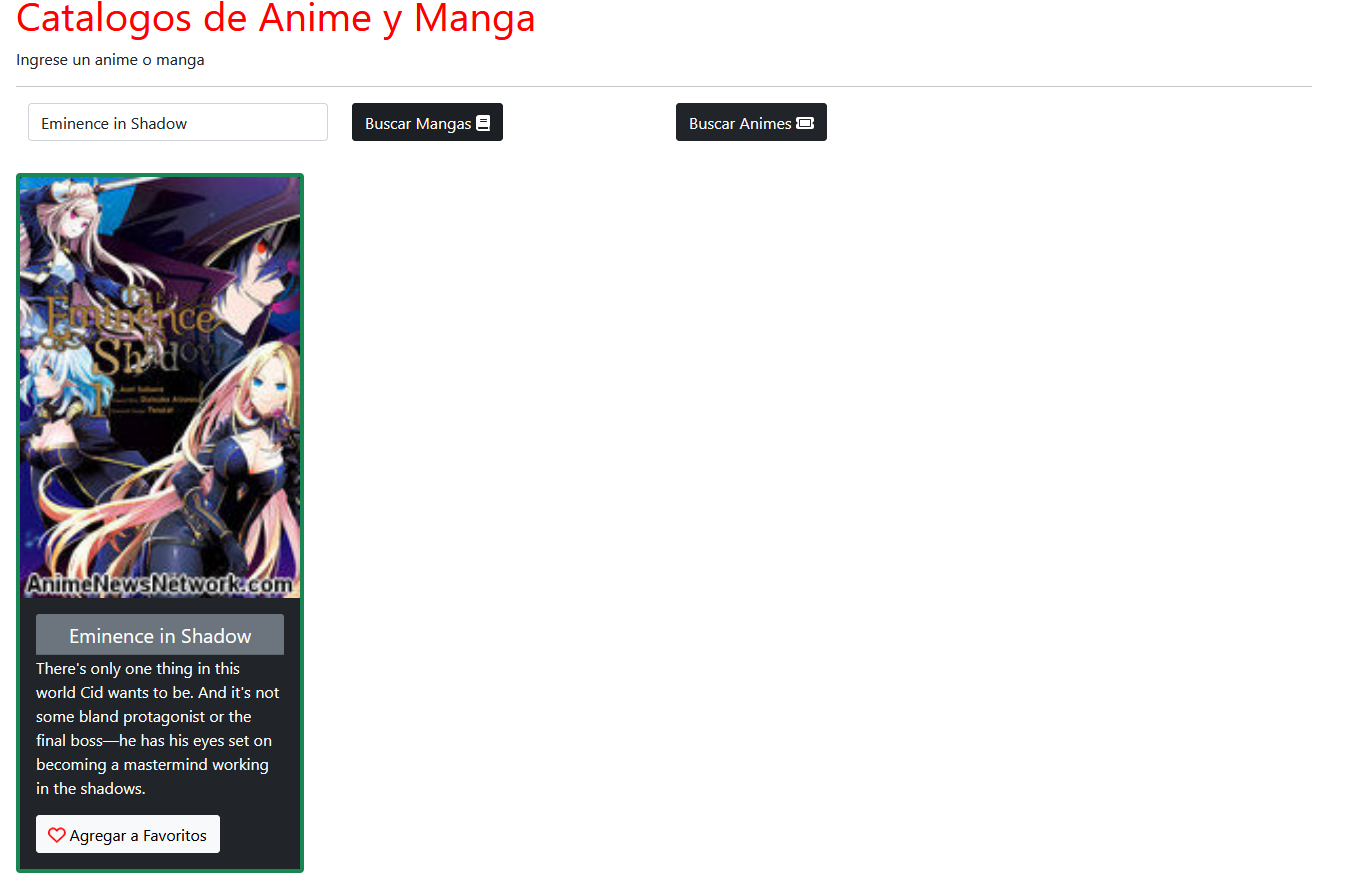
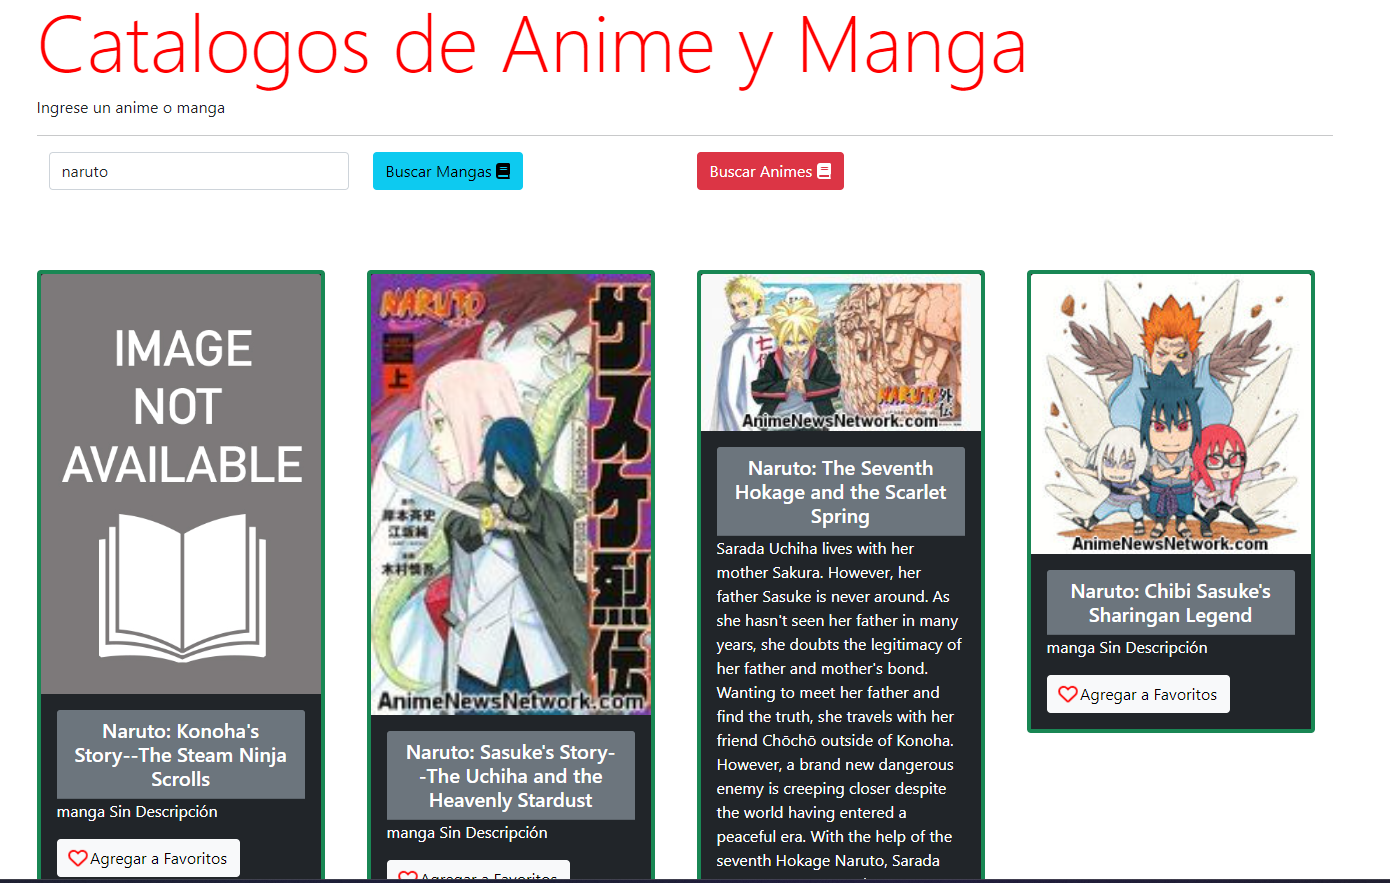
update

diff --git a/examenTecnicoAnime/Controllers/AnimeController.cs b/examenTecnicoAnime/Controllers/AnimeController.cs
@@ -3,17 +3,14 @@ using Microsoft.AspNetCore.Mvc;
 using System.IdentityModel.Tokens.Jwt;
 using System.IO;
 using System;
-using System.IO;
 using System.Text;
 using System.Xml.Serialization;
 using IHostingEnvironment = Microsoft.AspNetCore.Hosting.IHostingEnvironment;
-using System.Dynamic;
 using System.Net.Http;
 using Newtonsoft.Json.Linq;
 using System.Xml;
 using DL;
 using Microsoft.EntityFrameworkCore;
-using BL;
 using System.Xml.Linq;
 
 namespace examenTecnicoAnime.Controllers
@@ -49,7 +46,7 @@ namespace examenTecnicoAnime.Controllers
                 var readTask = result.Content.ReadAsStringAsync();
                 XmlDocument xmlDocument = new XmlDocument();
                 xmlDocument.LoadXml(readTask.Result);
-                dynamic resultJSON = xmlDocument.DocumentElement;
+
                 //foreach (var resultItem in resultJSON)
                 foreach (XmlNode resultItem in xmlDocument.SelectNodes("//item"))
                 {
@@ -113,7 +110,7 @@ namespace examenTecnicoAnime.Controllers
                     }
                 }
             }
-             catch (Exception ex)
+            catch (Exception ex)
             {
                 result.Correct = false;
                 result.ErrorMessage = ex.Message;
@@ -123,7 +120,7 @@ namespace examenTecnicoAnime.Controllers
         }
         [HttpGet]
         public ActionResult GetAllAM()
-        
+
         {
             Result result = new Result();
             result.anime = new Models.Anime();
@@ -133,7 +130,7 @@ namespace examenTecnicoAnime.Controllers
                 {
                     var query = context.Animes.FromSqlRaw("AnimeGetAll").ToList();
                     var querymanga = context.Mangas.FromSqlRaw("MangaGetAll").ToList();
-                    
+
                     result.anime.Animes = new List<object>();
                     result.anime.Mangas = new List<object>();
 
@@ -191,7 +188,7 @@ namespace examenTecnicoAnime.Controllers
                 result.ErrorMessage = ex.Message;
                 result.Ex = ex;
             }
-            return View("GetAllAM",result);
+            return View("GetAllAM", result);
             //return RedirectToAction("GetAllAM");
 
         }
@@ -208,7 +205,7 @@ namespace examenTecnicoAnime.Controllers
                 {
                     int query = 0;
                     query = context.Database.ExecuteSqlRaw($"DeleteManga '{anime.Id}'");
-                    
+
 
                     if (query >= 1)
                     {
@@ -249,48 +246,55 @@ namespace examenTecnicoAnime.Controllers
                     tipo = "manga";
                 }
 
-                var response = client.GetAsync(client.BaseAddress);
-                response.Wait();
-
-                var result = response.Result;
-                if (result.IsSuccessStatusCode)
+                using (var response = client.GetAsync(client.BaseAddress))
                 {
+                    response.Wait();
 
-                    var readTask = result.Content.ReadAsStringAsync();
-                    XmlDocument xmlDocument = new XmlDocument();
-                    xmlDocument.LoadXml(readTask.Result);
-                    foreach (XmlNode resultItem in xmlDocument.SelectNodes("//" + tipo))
+                    var result = response.Result;
+                    if (result.IsSuccessStatusCode)
                     {
-                        Models.Anime anime1 = new Models.Anime();
 
-                        anime1.Imagen = resultItem.SelectSingleNode("/ann/" + tipo + "/info[@type='Picture']").Attributes["src"].Value;
-                        anime1.Descripcion = resultItem.SelectSingleNode("/ann/" + tipo + "/info[@type='Plot Summary']").InnerText;
-                        anime1.Id = resultItem.SelectSingleNode("/ann/" + tipo + "").Attributes["id"].Value;
-                        anime1.Name = resultItem.SelectSingleNode("/ann/" + tipo + "").Attributes["name"].Value;
-                        anime1.Creador = resultItem.SelectSingleNode("/ann/" + tipo + "/staff/person").InnerText;
-                        anime1.Gid = resultItem.SelectSingleNode("/ann/" + tipo + "").Attributes["gid"].Value;
-                        anime1.Precision = resultItem.SelectSingleNode("/ann/" + tipo + "").Attributes["precision"].Value;
-                        if (resultItem.SelectSingleNode("/ann/" + tipo + "/info[@type='Vintage']") == null)
+                        var readTask = result.Content.ReadAsStringAsync();
+                        XmlDocument xmlDocument = new XmlDocument();
+                        xmlDocument.LoadXml(readTask.Result);
+                        var prueba = xmlDocument.SelectNodes("//" + tipo);
+                        foreach (XmlNode resultItem in prueba)
                         {
-                            anime1.Vintage = "";
+                            Models.Anime anime1 = new Models.Anime();
+
+                            anime1.Gid = resultItem.Attributes["gid"].Value;
+                            anime1.Gid = resultItem.Attributes["type"].Value;
+                            anime1.Name = resultItem.Attributes["name"].Value;
+                            anime1.Precision = resultItem.Attributes["precision"].Value;
+                            anime1.Creador = resultItem.SelectSingleNode("staff/person").InnerText;
+                            anime1.Id = resultItem.Attributes["id"].Value;
+                            if (resultItem.SelectSingleNode("info[@type='Plot Summary']") == null)
+                            {
+                                anime1.Descripcion = tipo + " Sin Descripción";
+
+                            }
+
+                            else
+                            {
+                                anime1.Descripcion = resultItem.SelectSingleNode("info[@type='Plot Summary']").InnerText;
+                            }
+                            if (resultItem.SelectSingleNode("info[@type = 'Picture'] / img / @src") == null)
+                            {
+                                anime1.Imagen = "https://islandpress.org/sites/default/files/default_book_cover_2015.jpg";
+                            }
+                            else
+                            {
+                                anime1.Imagen = resultItem.SelectSingleNode("info[@type = 'Picture'] / img / @src").Value;
+                            }
+
+                            anime.Animes.Add(anime1);
+                            anime.Result = true;
                         }
-                        else
-                        {
-                            anime1.Vintage = resultItem.SelectSingleNode("/ann/" + tipo + "/info[@type='Vintage']").InnerText;
-                        }
-
-                        anime1.Type = resultItem.SelectSingleNode("/ann/" + tipo + "").Attributes["type"].Value;
-
-
-
-
-                        anime.Animes.Add(anime1);
-                        anime.Result = true;
                     }
-                }
-                else
-                {
-                    return View("Index", anime);
+                    else
+                    {
+                        return View("Index", anime);
+                    }
                 }
             }
             return View("Index", anime);
